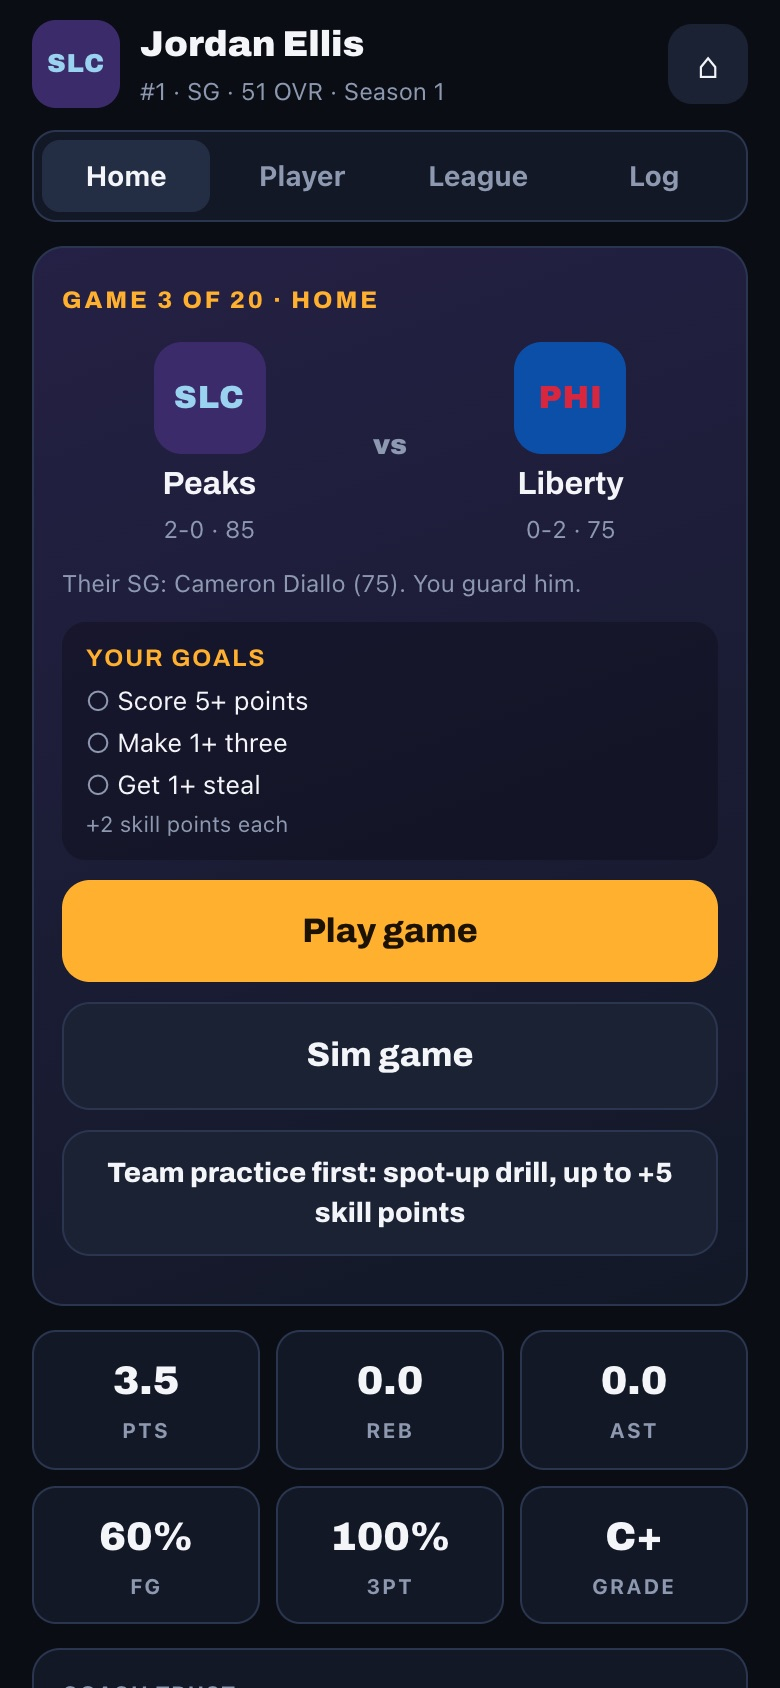
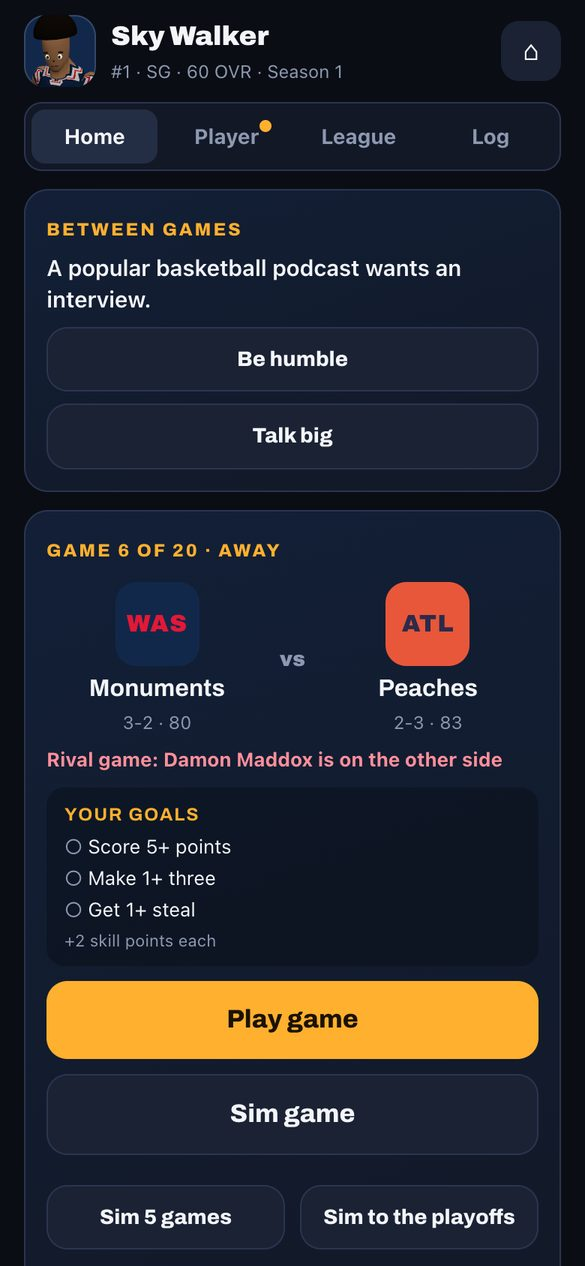
README: tonight's features and new screenshots

diff --git a/README.md b/README.md
@@ -21,16 +21,20 @@ The design is in [docs/PLAN.md](docs/PLAN.md), the order of work in [docs/ROADMA
 
 - **Your player**: position, one of six builds, height, skin tone, number, and a Look card (hair, headband, arm
   sleeve, shoes). Every rating shows its ceiling from day one.
-- **The road in**: a pre-draft combine (fifteen spot-up shots in 45 seconds that move your draft stock), draft
-  night, and a rival from your draft class in your division.
+- **The road in**: a pre-draft combine (fifteen spot-up shots in 45 seconds, and your measurements) and team
+  interviews that move your draft stock, draft night, and a rival from your draft class in your division.
 - **The season**: play or sim each game. Three goals a game by position; team practice between games; a teammate
   grade that earns skill points; badges (bronze to gold, earned by doing the thing); coach trust that sets your
   role (starters start, a sixth man checks in mid-first quarter, the bench in the second); a word from the coach
   every five games; press conferences; a social feed and followers; shoe endorsements.
-- **The league around you**: standings, league leaders, All-Star picks, the 3-Point Contest and the Dunk Contest, a play-in and
+- **The league around you**: a real schedule with back-to-backs, injuries, trades and a rookie class every summer,
+  Player of the Week, the All-Star fan vote, standings, league leaders, All-Star picks, the 3-Point Contest and the Dunk Contest, a play-in and
   playoff series, awards night (MVP, ROY, DPOY, Sixth Man, Most Improved, All-League, Finals MVP).
 - **The business**: a rookie deal by pick, an extension offer, free agency with four offers, trade requests,
   career earnings; past thirty the legs slow, from 33 you can retire and the Hall of Fame votes.
+- **Every summer**: training camp (one focus, with a drill for shooting and finishing).
+- **Your legacy**: a record book of the device's best games and seasons, banners in the rafters for your titles and
+  your retired jersey, a player card image to share, and your highlights after every game, saved as a video.
 - **Saves**: up to six careers on a device, backups to a file you can open on another device.
 
 ## On the floor
@@ -42,15 +46,19 @@ The design is in [docs/PLAN.md](docs/PLAN.md), the order of work in [docs/ROADMA
   floaters, hooks, step-backs and euro steps; blocks, team fouls and the bonus, and-ones, free throws, charges,
   strips, rebounds, the shot clock and overtime. Computer games average about 114 points a team on 47% shooting,
   like the real league.
+- The rules: eight seconds, backcourt, three seconds, goaltending, inbound plays, foul trouble.
+- Call a pick, call a play (get me the ball, pick-and-roll, feed the post); get hot and they double you.
 - Dribble moves on the Move button (swipe for a crossover either way, a step-back, a spin), stamina, replays of
   dunks and buzzer-beaters, an opening flyover, halftime stats, a shot chart and box score after the game.
 - Three cameras: Player lock (the default: high behind your player, facing the rim in play), Broadcast (the
   sideline) and Overhead.
 - Sound: a crowd that reacts to the home team (roars, groans, oohs, "DE-FENSE"), the arena organ, squeaks, the
-  net, the rim, the whistle, the horn, and a two-voice broadcast booth.
+  net, the rim, the whistle, the horn, a two-voice broadcast booth and an arena announcer (260 recorded lines), and
+  players talking on the floor.
+- Referees, benches and coaches, fans in the home colors, starting lineups before the tip.
 
 Also: Season (one team, the whole team under your thumbs, to a title), Quick game (any two teams, one player or the
-whole team), Practice (the 3-point and dunk contests, the drill), Edit teams.
+whole team), Practice (the 3-point and dunk contests, the drill, a shoot-around), Edit teams.
 
 ## Controls
 
